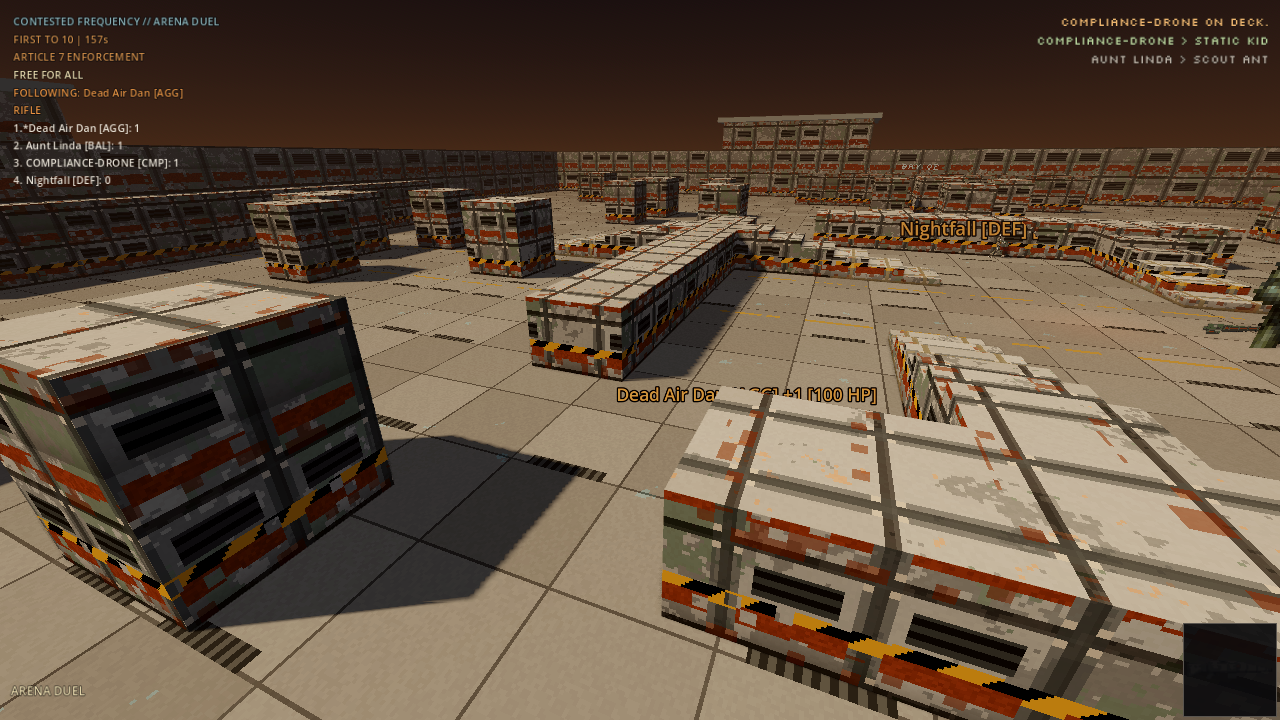
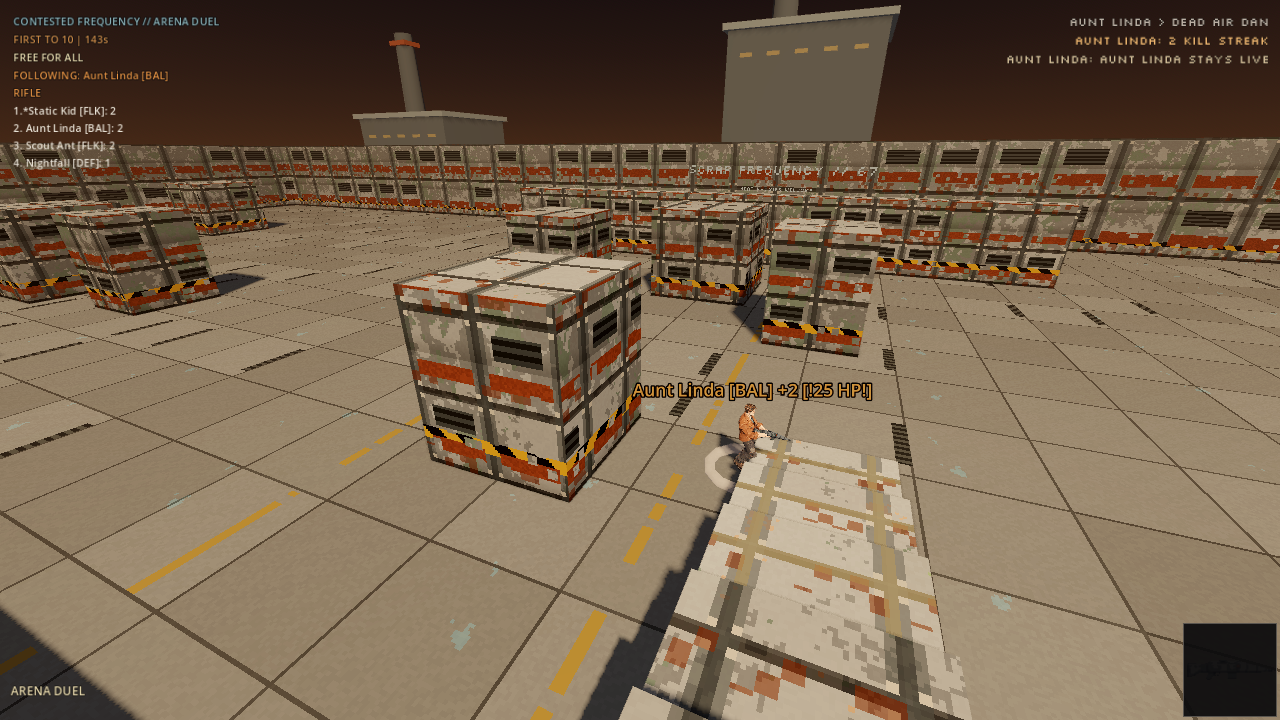
docs: refresh the README gallery and current campaign notes
The multiplayer page and watched match are from the current build. Saves, rockets, and the twelve-mission run are no longer described as unbuilt. The remaining acceptance for the closed campaign tickets stays in the plans.

diff --git a/docs/ROADMAP.md b/docs/ROADMAP.md
@@ -190,14 +190,14 @@ allowance is recorded above.
 The October 3 aggregate balance is reconciled to Nick's reported $14.42;
 individual request charges remain unverified.
 
-**Not built yet (honest list):** low-latency transport (WebSocket JSON only; local human prediction shipped in v0.58.0), bounded lag compensation, a complete protocol migration policy (geometry and gameplay admission exist), unlimited lifetime statistics, full campaign progression and rewards, DJ bumpers and a voiced Host, a finished single-player campaign or full co-op lifecycle, a complete art pass, public-server load tests, any cloud apply, Rescue, levels 12 to 20, the M14 vehicle mission, motorcycle and jetpack gameplay, the expanded console, Ultra graphics and the nine-scene rendered showcase, wider directional combat acoustics, a finished modelled cast and complete environmental kits.
+**Not built yet (honest list):** low-latency transport (WebSocket JSON only; local human prediction shipped in v0.58.0), bounded lag compensation, a complete protocol migration policy (geometry and gameplay admission exist), unlimited lifetime statistics, full campaign progression and rewards, DJ bumpers and a voiced Host, a finished single-player campaign or full co-op lifecycle, a complete art pass, public-server load tests, any cloud apply, Rescue, connected levels 13 through 20, the M14 vehicle mission, motorcycle and jetpack gameplay, the expanded console, Ultra graphics and the nine-scene rendered showcase, wider directional combat acoustics, a finished modelled cast and complete environmental kits.
 
 The current development build includes Holdfast Conquest with jeeps, boats,
 an aircraft and swimming. This establishes a playable combined-arms prototype;
 finished island art, human balance and networked 64-player acceptance remain
 open. `GET /status` on the game port is a host probe. The app keeps a local
 server list and hears LAN announcements; there is no public directory.
-Episode 0 remains separate from the eleven connected campaign prototypes.
+Episode 0 remains separate from the twelve connected campaign prototypes.
 The main menu Benchmark compares three graphics presets against the same
 recorded Arena Duel fight and exports frame statistics. It does not establish
 public-server readiness or replace the planned nine-scene showcase. Frame caps,
@@ -333,7 +333,7 @@ the reproduced exposed-ring layout, 16 new cover pockets, walking regressions,
 network comparisons and inspected captures. These checks establish safer
 openings, not a finished map or a universal respawn guarantee.
 
-The [M01 completion work](plans/m01-completion.md), tracked in #195, expands the
+The [M01 completion work](plans/m01-completion.md) expands the
 records wing into reception, stacks, bypass, sorting and dispatch with twenty
 preplaced guards and finite campaign stock. The records-wing increment in #196
 passes full rendered OpenGL/Vulkan routes with twenty named defeats and departure,
@@ -356,7 +356,7 @@ level with its starting equipment; three continues, refilled at the start of
 each episode, is the decided allowance. No mandatory duo, companion controls,
 revival or all-mission co-op. Autonomous allies and level-specific viewpoints
 are design options.
-Cross-mission recovery and disk saves remain unbuilt under #195. The local service
+Durable version 16 run files carry the connected development campaign through Terms of Cooperation, including mission-entry retries and completed choices. Final Recall Notice art, pacing and fresh-player acceptance stay in the [M01 completion plan](plans/m01-completion.md). The local service
 record now retains 256 campaign, arena and practice observations, with authoritative
 counters, separate attempt effort, JSON export and optional localized quips.
 Local verification passes under [#199](plans/benchmark-and-stats.md): authoritative
@@ -375,7 +375,7 @@ released as v0.81.0. It is not part of v0.80.0. No mission grants it. Its
 campaign placement remains ahead in
 [the readable arsenal](plans/readable-arsenal.md). Gold
 finishes and curated weapon colors are cosmetic-only achievement directions
-under #197.
+in [difficulty and rewards](plans/difficulty-and-rewards.md).
 
 The phases below are the long shape. The sequence that follows is the build order. Each rung is there because the rung before it is what makes the next one true. A green harness is not a finished mission. A scripted clear is not a fresh player.
 

diff --git a/docs/WEAPONS.md b/docs/WEAPONS.md
@@ -57,9 +57,9 @@ offers an explicit mission-start continue with entry equipment restored. Three
 continues are implemented for the local run. Mission-entry saves carry body,
 found guns, ammunition, grenade counts, selection and remaining continues
 through the connected authored development missions, including the M12 prototype.
-Save version 15 preserves actual counts through the existing locked writer;
-strict historical version 14 and earlier upgrades archive exact original bytes
-and refuse forged Arc ownership. Earlier formats retain their original weapon
+Save version 16 is current. It preserves those counts and adds an empty Rockets
+pool when an older file migrates. Strict historical upgrades archive exact
+original bytes and refuse forged Arc ownership and a forged Rockets pool. Earlier formats retain their original weapon
 and stage boundaries, including Repeater and Remote Mine restrictions.
 The current M10 prototype grants no
 Repeater; its actual source, cue and discovery lesson remain open.
@@ -103,7 +103,7 @@ There is one number per ammunition type and it is everything you carry, includin
 | 6b | **Sniper** (implemented) | Far precision, scoped, 90 m reach | 70 | 1.60 s | 8 | Cells | Level 7 rack, campaign only |
 | 7 | **Repeater** (CPU foundation, feel candidate) | Held full auto after 0.30 s warmup | 14 | 0.10 s | 60 | Bullets | M10 lesson planned; no production find |
 | 8 | **Lobber** | Splash, projectile | 65 direct, 45 splash | 0.80 s | 4 | Rockets | Pad, outer ring |
-| 9 | **Arc** (implemented foundation) | 24 m energy, bypasses carried armour and registered plates | 18 | 0.15 s | 40 | Cells | Separate finite practice lesson; connected M12 in flight |
+| 9 | **Arc** (implemented foundation) | 24 m energy, bypasses carried armour and registered plates | 18 | 0.15 s | 40 | Cells | Connected M12 prototype; fresh-player acceptance remains open |
 | 10 | **Proximity Mine** (implemented) | Thrown, sticks | Up to 130, covered 4.5 m falloff | 2 s to arm, 0.2 s triggered fuse | 4 carried maximum | none | M08 |
 | 11 | **Article Blade** | Melee upgrade | 70 | 0.45 s | 12 swings | none | Plinth, near centre |
 | 12 | **Denial** | Signature | 250 | 1.25 s | 5, no refill | none | Plinth, centre |
@@ -180,9 +180,11 @@ Later encounters can use an obvious demolition target with a nearby usable charg
 never a hidden bomb hunt or a finicky wiring puzzle. Multiplayer needs visible
 counterplay, bounded active devices and explicit owner/death/round cleanup rules.
 Server authority covers placement, arming, detonation, cover-blocked splash and
-damage. Cosmetics cannot hide the device or its tell. Rockets remain unbuilt.
-Reuse the counted grenade's server-owned projectile, covered blast and cleanup
-seams when their bounded plan reaches implementation.
+damage. Cosmetics cannot hide the device or its tell. The Rocket Launcher is
+implemented: straight flight, covered splash, a one-round tube and a separate
+Rockets pool. No mission grants it, and its viewmodel art remains ahead. It
+reuses the counted grenade's server-owned projectile, covered blast and cleanup
+seams.
 
 ## Ammunition economy
 

diff --git a/docs/screenshots/README.md b/docs/screenshots/README.md
@@ -11,18 +11,16 @@ when its presentation changes; the remaining files stay as dated tour evidence.
 The project tour runs the engine binary. Packaged desktop games use the original
 game icon checked by the release workflow; these stills do not prove taskbar icons.
 
-## Current README gallery, October 8, 2026
+## Current README gallery, October 10, 2026
 
-The current working-tree composition on main `e4df1a0b` passed the full
-32-state visual tour and copied fourteen stills again after live character
-integration. They were inspected at full size, including all three original
-effects strips. Human and synthetic participants now use weighted live meshes;
-the menu retains its small strip preview. The selected Multiplayer still comes from the final clean full tour,
-including a real owned loopback probe and bounded scrolling content.
-Its title and Back fit within the card. Independent original-size review
-corrected a previous mistaken clipping observation; no layout repair was needed.
-The earlier title anomaly remains in its dated receipt. Earlier body-camera and Rail setup corrections remain in
-the owning release receipts.
+The boot menu matches the October 8 capture byte for byte. The multiplayer
+page and the watched Arena Duel match were captured again on the current build
+and inspected at full size. The multiplayer page shows a real loopback host
+check, and its title and Back fit within the card. The watched match shows a
+live fighter, the score, and the kill feed. Recall Notice intake remains the
+October 8 three-room capture. That mission surface did not change. The other
+tour files stay at the October 8 publish. The stills below were copied without
+retouching, cropping, or resizing.
 
 | README image | Actual state |
 |---|---|
@@ -31,12 +29,12 @@ the owning release receipts.
 | `tour_multiplayer_16x9.png` | Populated join page after a real loopback status probe, with the saved host and bounded scrolling content |
 | `tour_combat_follow_16x9.png` | Spectator chase view of an Active Arena Duel round with rule bots |
 
-The [receipt](readme-20261008.json) records image, route, QA-source and native
-hashes. All selected images are copied without retouching, cropping or resizing.
-The [October 7 receipt](readme-20261007.json) retains its historical hashes.
+The [October 8 receipt](readme-20261008.json) remains the hash record for the
+unchanged boot menu, the intake still, and the other tour files. The
+multiplayer page and watched match above replace that receipt's copies. The
+[October 7 receipt](readme-20261007.json) retains its historical hashes.
 The intake retains its earlier three-state prefix, not a full campaign
-completion. The earlier focused Multiplayer capture remains historical in the
-receipt; the current selection is the full-tour original.
+completion.
 The tour uses isolated settings and history, Godot 4.7.2-stable, Windows,
 OpenGL Compatibility, an AMD Radeon 780M and 1280x720 output. These screenshots
 do not establish final art, human enjoyment, LAN behavior or hardware performance.

diff --git a/docs/CAMPAIGN.md b/docs/CAMPAIGN.md
@@ -4,7 +4,7 @@ The [art bible](ART_STORY_BIBLE.md) and [design continuity guides](design/README
 keep worlds, characters, voices and future scenes consistent. The
 [level plans](campaign/README.md) apply those rules to individual places.
 
-**Status, 2026-10-08:** twenty levels in five episodes, plus a survival-gated
+**Status, 2026-10-10:** twenty levels in five episodes, plus a survival-gated
 playable epilogue, accepted as the contract. This replaces the ten-mission
 structure agreed 2026-09-20, which itself replaced the earlier twelve-mission
 structure. The [campaign expansion plan](plans/campaign-expansion.md) records
@@ -26,12 +26,15 @@ grenades, optional workshop rescue, a bounded authoritative tram and deliberate
 freight departure. M04-to-M05 carry retains earlier car, patient and photograph
 outcomes. The connected development run continues through M06 Port of Entry,
 M07 Declared Goods, M08 Custodian of Record, M09 Passenger Manifest, M10 Common
-Carrier, M11 Right of Search and M12 Terms of Cooperation. Version 15 saves retain mission-entry retries,
+Carrier, M11 Right of Search and M12 Terms of Cooperation. Version 16 saves retain mission-entry retries,
 equipment, remaining continues and completed choices, distinguishing released
 people from those actually evacuated or aboard. Historical saves upgrade
 explicitly and retain exact-byte archives. M12 adds the Arc, Assessor, shelter,
 pump conditions and coalition departure; completed M12 records pending M13.
-Connected M13 through M20 and the epilogue remain unbuilt. Local standalone
+Connected M13 through M20 and the epilogue remain unbuilt. Development grayboxes
+for levels 15 through 20, and a sheltered trench on the level 14 battlefield,
+are not connected missions. Ordinary campaign supply and visual pursuit scale
+by Assisted, Standard, and Severe. Standard tell timing stays exact. Local standalone
 [M12 habitat](plans/m12-habitat-development-20261008.md),
 [M13 foundry](plans/m12-m14-foundry-slice-20261008.md) and
 [M14 launch-works](plans/m14-vehicle-development-20261006.md) maps have supplied
@@ -430,7 +433,7 @@ retains completed recall-car choices throughout M04 and its retries. M04 saves
 patient rescue and photograph outcomes through M05 entry and retries. M05's
 development prototype adds counted grenades, workshop rescue, a real translating
 tram and freight departure, preserving released/physically aboard outcomes at
-Port of Entry. The version 15 run continues through M12, retaining actual
+Port of Entry. The version 16 run continues through M12, retaining actual
 completed outcomes, entry resources and the M06/M10 episode refills. Completed
 M12 retains pending M13. Connected M13-M20, the epilogue and any cloud-save policy
 remain unbuilt. Complete pacing and fresh-player acceptance stay open.

diff --git a/docs/plans/m01-completion.md b/docs/plans/m01-completion.md
@@ -1,6 +1,6 @@
 # Recall Notice: complete mission
 
-Status: **in flight**, audited 2026-10-08. [Task #195](https://github.com/blisspixel/fragr/issues/195) owns finished-mission acceptance. The authoritative mission and durable solo-run foundation are implemented; final art, final difficulty/pacing and unsteered fresh-player acceptance remain open. The [full build order](../ROADMAP.md#full-build-order-updated-2026-10-08) remains the sole active sequence.
+Status: **in flight**, audited 2026-10-10. Finished-mission acceptance stays in this plan. GitHub #195 is closed and does not record fresh-player acceptance or final art. The authoritative mission and durable solo-run foundation are implemented; final art, final difficulty/pacing and unsteered fresh-player acceptance remain open. The [full build order](../ROADMAP.md#full-build-order) remains the sole active sequence.
 
 Current source contains the inhabited records/transfer rooms, both ordinary
 approaches, a separate east-bypass fight, a balcony view of the lift, physical
@@ -14,9 +14,10 @@ secret is not a remaining requirement.
 
 [Mission-start continues](campaign-continues.md) and
 [durable local run files](campaign-run-file.md) are implemented. Current
-version-14 files carry the connected development campaign through M11, with
-explicit episode refills, locked replacement and strict historical migration;
-M06 and its Episode II refill are implemented. The connected prototypes do not
+version 16 files carry the connected development campaign through Terms of
+Cooperation, with explicit episode refills, locked replacement and strict
+historical migration. M06 and its Episode II refill are implemented. Completed
+M12 records pending M13. The connected prototypes do not
 establish a finished campaign. Entry restoration, exhaustion, duplicate/stale
 refusal and save/quit without replenishing continues remain authoritative
 contracts, not open disk-save implementation tasks.

diff --git a/docs/plans/difficulty-and-rewards.md b/docs/plans/difficulty-and-rewards.md
@@ -1,6 +1,6 @@
 # Difficulty and earned customization
 
-Status: in flight, updated 2026-10-09. [Task #197](https://github.com/blisspixel/fragr/issues/197).
+Status: in flight, updated 2026-10-10. GitHub #197 is closed. Fresh-player balance and the remaining rewards stay in this plan.
 Explicit difficulty and shared enemy rules are implemented. Current main has
 twelve connected development missions through Terms of Cooperation, version 16
 durable run files and three mission-start continues refilled at implemented
@@ -238,11 +238,13 @@ documents this early-exit interaction (checked 2026-09-20). All ten verifier fau
 scenarios and 27 local Godot harnesses pass. CI run 35536139881 at code head
 `55405ac` passes all five jobs, including Linux Godot and Windows/macOS portability.
 Subsequent final CI run 35537266801 passed all five jobs at `f9dee29`.
-PR #198 merged as `b572396` and released in v0.30.0. The remaining achievement
-and earned-cosmetic scope keeps #197 open.
+PR #198 merged as `b572396` and released in v0.30.0. The two local awards and
+the v0.82.0 supply and pursuit scaling are on main. GitHub #197 is closed.
+Fresh-player balance, encounter-count variation, gold finishes and the
+campaign-completion award stay in this plan. They are not accepted.
 
 These checks establish the implementation and reachable mission, not final human
 balance. Missed shots, unfamiliar players, scarce supply margins and the new
 limited-continue run need dedicated acceptance. Any future co-op variant requires
 its own evidence. No achievement, persistence, reward, run-recovery or final-art
-claim follows from this increment. Integration and remaining work stay on #197.
+claim follows from this increment.

diff --git a/docs/plans/open-issues-20261008.md b/docs/plans/open-issues-20261008.md
@@ -1,6 +1,16 @@
 # Open issue reconciliation
 
-Status: in flight, 2026-10-08. Nick requested research, plans and implementation
+Status: reconciled 2026-10-10. The public repository has no open issues.
+#180, #195 and #197 are closed. Their shipped work is on main in v0.82.0.
+Final Recall Notice art and pacing, Clerk and Sweeper production review,
+fresh-player difficulty, encounter-count variation, gold finishes and the
+campaign-completion award stay in the owning plans. Closing the tickets does
+not record those gates as passed. The private security tracker also has no
+open fragr issues.
+
+The notes below are the October 8 mapping and remain historical.
+
+Status on 2026-10-08: Nick requested research, plans and implementation
 for the complete open GitHub backlog alongside the current parallel buildout.
 Nick confirmed that this includes unfinished roadmap work, not only GitHub
 issues. The existing full build order continues to own those dependencies.

diff --git a/docs/design/moon.md b/docs/design/moon.md
@@ -2,9 +2,10 @@
 
 Production direction, updated 2026-10-01. The [bible](../ART_STORY_BIBLE.md) owns palette
 and faction manufacture; [levels 6-9](../campaign/README.md) own encounters.
-The [M06 prototype](../plans/m06-port-of-entry-prototype.md) is in flight;
-later lunar missions remain unbuilt. These are linked authoring targets,
-with implementation evidence and remaining acceptance recorded in that plan.
+The M06 through M09 prototypes are playable development missions on main.
+Fresh-player acceptance remains open, and no later lunar mission is built.
+These are linked authoring targets, with implementation evidence and remaining
+acceptance recorded in the [M06 plan](../plans/m06-port-of-entry-prototype.md).
 
 An established settlement under pressure controls, not an empty landing pad.
 The port, habitation ring, custody archive and launch berth belong to the same

diff --git a/docs/plans/m01-intake-encounter.md b/docs/plans/m01-intake-encounter.md
@@ -1,9 +1,9 @@
 # M01 intake encounter
 
-Status: foundation **shipped** in #182 and v0.25.0; final character, motion and
-fresh-player acceptance remain **in flight** in
-[task #180](https://github.com/blisspixel/fragr/issues/180). Current audit:
-2026-10-08. Safe Pistol discovery, the initial Clerk and two Sweepers, attack
+Status: foundation **shipped** in #182 and v0.25.0. Final character, motion and
+fresh-player acceptance remain **in flight** in this plan. GitHub #180 is
+closed and does not record that review. Current audit: 2026-10-10. Safe Pistol
+discovery, the initial Clerk and two Sweepers, attack
 phases, resolved recoil, collapse and exhausted melee are implemented. The
 expanded rooms, record, lift, local launch, opening, secret and durable run
 followed in separate increments tracked by [M01 completion](m01-completion.md).

diff --git a/docs/ENEMIES.md b/docs/ENEMIES.md
@@ -158,7 +158,7 @@ can mix these established roles. During the level 18 wipe, the Inheritance can
 seize surviving Notaries as infrastructure; their issued shape remains, while
 their targets and timing change. These placements follow the accepted
 [campaign order](CAMPAIGN.md#structure). M04/M05 implement bounded Notary combat;
-connected Assessor introduction is in flight, and takeover behavior remains unbuilt.
+the connected M12 prototype introduces the Assessor, and takeover behavior remains unbuilt.
 
 **What the existing Compliance Drone gives.** Less than its name suggests. It is
 an arena prototype: an ordinary player body with an `is_boss` flag, spawned once

diff --git a/docs/PLAYING.md b/docs/PLAYING.md
@@ -255,7 +255,7 @@ The local file is `run.json` under the platform user-data `runs` directory:
 `%LOCALAPPDATA%/fragr/runs` on Windows,
 `~/Library/Application Support/fragr/runs` on macOS, or
 `$XDG_DATA_HOME/fragr/runs` (usually `~/.local/share/fragr/runs`) on Linux.
-Current source writes version 15 saves; desktop v0.75.0 writes version 12.
+Current source writes version 16 saves; desktop v0.75.0 writes version 12.
 Supported historical saves upgrade
 strictly, retaining exact original bytes in a content-addressed
 `run.prior-<digest>.json` archive. Unknown revisions and magazine-era version 1

diff --git a/README.md b/README.md
@@ -20,7 +20,7 @@ Local play and self-hosting need no account or paid service.
 
 ## Play now
 
-Download the [latest desktop release](https://github.com/blisspixel/fragr/releases/latest).
+Download the [latest desktop release](https://github.com/blisspixel/fragr/releases/latest), v0.82.0.
 The current source build has twelve connected development levels through Terms
 of Cooperation, mission-entry saves, finite ammunition and three continues per episode.
 Check the release notes for the contents of a downloaded package. The finished target
